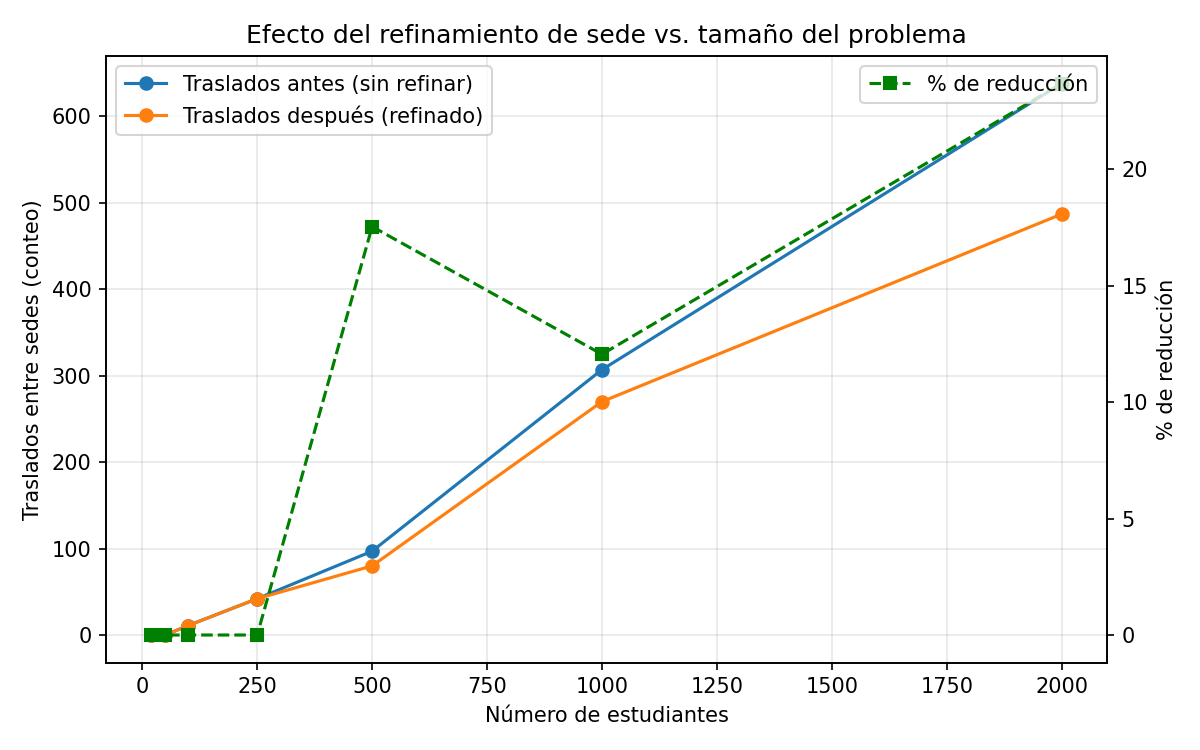
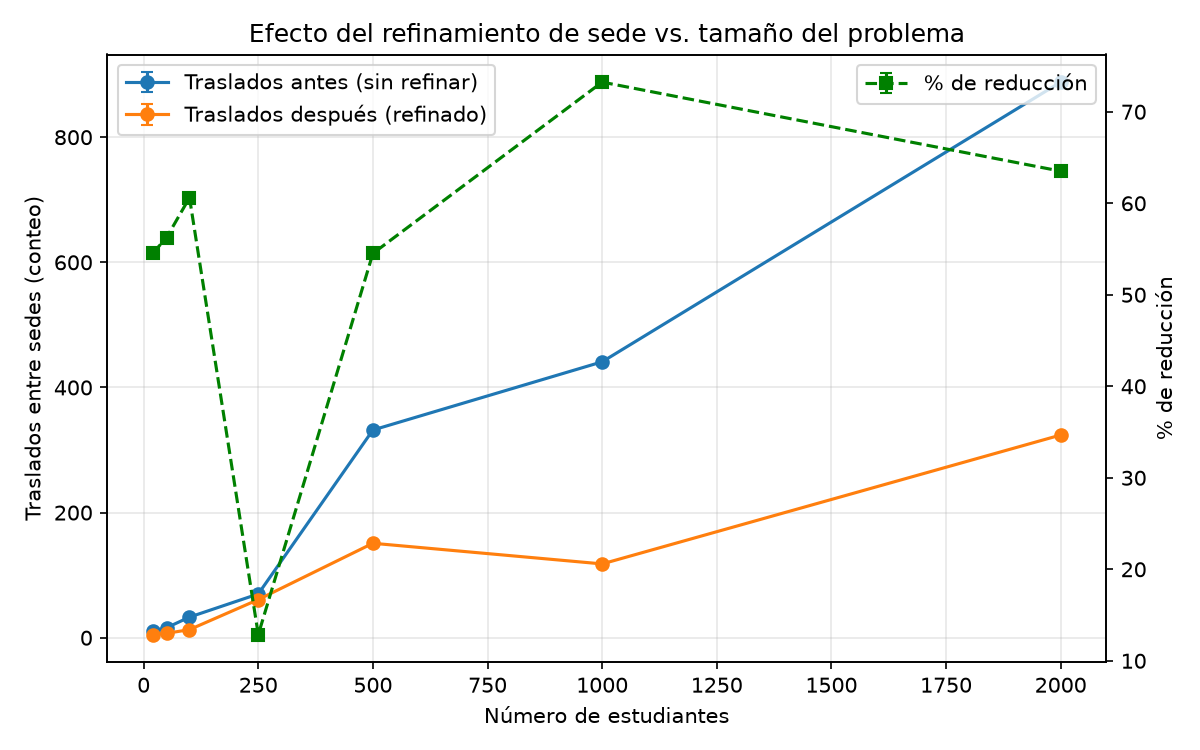
Add; Nueva consideración, ahora en lugar del limite de 2 grupos por materia, se establece un maximo de 8 por materia, algo mas realista y coherente

diff --git a/experimentos/experimentos/graficar_resultados.py b/experimentos/experimentos/graficar_resultados.py
@@ -1,0 +1,160 @@
+"""
+Genera las gráficas de escalabilidad a partir de experimentos/resultados_benchmark.csv.
+
+Si el CSV tiene varias semillas por escala, cada punto de las gráficas es el
+PROMEDIO entre semillas, con barras de error mostrando la desviación estándar
+-- así una sola corrida con datos "raros" no distorsiona la curva.
+
+Uso:
+    python experimentos/graficar_resultados.py
+    python experimentos/graficar_resultados.py --csv otra_ruta.csv --salida otra_carpeta/
+"""
+
+from __future__ import annotations
+import argparse
+import os
+
+import pandas as pd
+import matplotlib.pyplot as plt
+
+
+def _cargar(ruta_csv: str) -> pd.DataFrame:
+    df = pd.read_csv(ruta_csv)
+    fallidas = df[df["estado"] != "ok"]
+    if not fallidas.empty:
+        print("Filas con errores (excluidas de las gráficas):")
+        print(fallidas[["num_estudiantes", "semilla", "modo", "estado"]].to_string(index=False))
+    return df[df["estado"] == "ok"].copy()
+
+
+def _agregar(df: pd.DataFrame, columna: str) -> pd.DataFrame:
+    """Promedio y desviación estándar de `columna`, agrupado por (num_estudiantes, modo)."""
+    agregado = df.groupby(["num_estudiantes", "modo"])[columna].agg(["mean", "std"]).reset_index()
+    agregado["std"] = agregado["std"].fillna(0.0)  # una sola semilla -> std=0, no NaN
+    return agregado
+
+
+def graficar_tiempo_total(df: pd.DataFrame, carpeta_salida: str) -> None:
+    agregado = _agregar(df, "tiempo_total_s")
+    fig, ax = plt.subplots(figsize=(8, 5))
+    for modo, grupo in agregado.groupby("modo"):
+        grupo = grupo.sort_values("num_estudiantes")
+        ax.errorbar(grupo["num_estudiantes"], grupo["mean"], yerr=grupo["std"], marker="o", capsize=3, label=modo)
+    ax.set_xlabel("Número de estudiantes")
+    ax.set_ylabel("Tiempo total de ejecución (s)")
+    ax.set_title("Escalabilidad: tiempo total vs. tamaño del problema")
+    ax.legend()
+    ax.grid(True, alpha=0.3)
+    fig.tight_layout()
+    fig.savefig(os.path.join(carpeta_salida, "01_tiempo_total_vs_escala.png"), dpi=150)
+    plt.close(fig)
+
+
+def graficar_tiempo_por_etapa(df: pd.DataFrame, carpeta_salida: str) -> None:
+    propuesta = df[df["modo"] == "propuesta"]
+    fig, ax = plt.subplots(figsize=(8, 5))
+    for columna, etiqueta in [
+        ("tiempo_matching_s", "Matching (Fase 1)"),
+        ("tiempo_coloreo_s", "Coloreo DSatur (Fase 2)"),
+        ("tiempo_refinamiento_s", "Refinamiento de sede"),
+    ]:
+        agregado = propuesta.groupby("num_estudiantes")[columna].agg(["mean", "std"]).reset_index()
+        agregado["std"] = agregado["std"].fillna(0.0)
+        agregado = agregado.sort_values("num_estudiantes")
+        ax.errorbar(agregado["num_estudiantes"], agregado["mean"], yerr=agregado["std"], marker="o", capsize=3, label=etiqueta)
+    ax.set_xlabel("Número de estudiantes")
+    ax.set_ylabel("Tiempo (s)")
+    ax.set_title("Modo propuesta: tiempo por etapa del pipeline")
+    ax.legend()
+    ax.grid(True, alpha=0.3)
+    fig.tight_layout()
+    fig.savefig(os.path.join(carpeta_salida, "02_tiempo_por_etapa.png"), dpi=150)
+    plt.close(fig)
+
+
+def graficar_reduccion_traslados(df: pd.DataFrame, carpeta_salida: str) -> None:
+    propuesta = df[df["modo"] == "propuesta"]
+    antes = propuesta.groupby("num_estudiantes")["traslados_antes"].agg(["mean", "std"]).reset_index().sort_values("num_estudiantes")
+    despues = propuesta.groupby("num_estudiantes")["traslados_despues"].agg(["mean", "std"]).reset_index().sort_values("num_estudiantes")
+    pct = propuesta.groupby("num_estudiantes")["reduccion_traslados_pct"].agg(["mean", "std"]).reset_index().sort_values("num_estudiantes")
+
+    fig, ax1 = plt.subplots(figsize=(8, 5))
+    ax1.errorbar(antes["num_estudiantes"], antes["mean"], yerr=antes["std"].fillna(0), marker="o", capsize=3, label="Traslados antes (sin refinar)")
+    ax1.errorbar(despues["num_estudiantes"], despues["mean"], yerr=despues["std"].fillna(0), marker="o", capsize=3, label="Traslados después (refinado)")
+    ax1.set_xlabel("Número de estudiantes")
+    ax1.set_ylabel("Traslados entre sedes (conteo)")
+    ax1.legend(loc="upper left")
+    ax1.grid(True, alpha=0.3)
+
+    ax2 = ax1.twinx()
+    ax2.errorbar(pct["num_estudiantes"], pct["mean"], yerr=pct["std"].fillna(0), marker="s", color="green", linestyle="--", capsize=3, label="% de reducción")
+    ax2.set_ylabel("% de reducción")
+    ax2.legend(loc="upper right")
+
+    ax1.set_title("Efecto del refinamiento de sede vs. tamaño del problema")
+    fig.tight_layout()
+    fig.savefig(os.path.join(carpeta_salida, "03_reduccion_traslados_vs_escala.png"), dpi=150)
+    plt.close(fig)
+
+
+def graficar_violaciones_veto(df: pd.DataFrame, carpeta_salida: str) -> None:
+    agregado = _agregar(df, "violaciones_veto")
+    tabla_media = agregado.pivot(index="num_estudiantes", columns="modo", values="mean")
+    fig, ax = plt.subplots(figsize=(8, 5))
+    tabla_media.plot(kind="bar", ax=ax)
+    ax.set_xlabel("Número de estudiantes")
+    ax.set_ylabel("Estudiantes que ven con un profesor vetado (promedio)")
+    ax.set_title("Violaciones de veto: DSatur sin restricciones vs. Welsh-Powell vs. propuesta")
+    ax.grid(True, axis="y", alpha=0.3)
+    fig.tight_layout()
+    fig.savefig(os.path.join(carpeta_salida, "04_violaciones_veto_comparativo.png"), dpi=150)
+    plt.close(fig)
+
+
+def graficar_franjas_requeridas(df: pd.DataFrame, carpeta_salida: str) -> None:
+    agregado = _agregar(df, "franjas_requeridas")
+    fig, ax = plt.subplots(figsize=(8, 5))
+    for modo, grupo in agregado.groupby("modo"):
+        grupo = grupo.sort_values("num_estudiantes")
+        ax.errorbar(grupo["num_estudiantes"], grupo["mean"], yerr=grupo["std"], marker="o", capsize=3, label=modo)
+
+    if "hmax_utilizado" in df.columns and not df["hmax_utilizado"].isna().all():
+        hmax = df["hmax_utilizado"].dropna().iloc[0]
+        ax.axhline(hmax, color="red", linestyle="--", label=f"Hmax utilizado ({int(hmax)})")
+
+    ax.set_xlabel("Número de estudiantes")
+    ax.set_ylabel("Franjas horarias requeridas (χ(G₂))")
+    ax.set_title("Franjas requeridas vs. tamaño del problema")
+    ax.legend()
+    ax.grid(True, alpha=0.3)
+    fig.tight_layout()
+    fig.savefig(os.path.join(carpeta_salida, "05_franjas_requeridas_vs_escala.png"), dpi=150)
+    plt.close(fig)
+
+
+def main():
+    parser = argparse.ArgumentParser(description="Genera las gráficas de escalabilidad del benchmark UCTP.")
+    parser.add_argument("--csv", type=str,
+                         default=os.path.join(os.path.dirname(__file__), "resultados_benchmark.csv"))
+    parser.add_argument("--salida", type=str,
+                         default=os.path.join(os.path.dirname(__file__), "graficas"))
+    args = parser.parse_args()
+
+    os.makedirs(args.salida, exist_ok=True)
+    df = _cargar(args.csv)
+
+    if df.empty:
+        print("No hay filas exitosas para graficar.")
+        return
+
+    graficar_tiempo_total(df, args.salida)
+    graficar_tiempo_por_etapa(df, args.salida)
+    graficar_reduccion_traslados(df, args.salida)
+    graficar_violaciones_veto(df, args.salida)
+    graficar_franjas_requeridas(df, args.salida)
+
+    print(f"Gráficas guardadas en: {args.salida}")
+
+
+if __name__ == "__main__":
+    main()

diff --git a/experimentos/experimentos/hidratar.py b/experimentos/experimentos/hidratar.py
@@ -1,0 +1,61 @@
+"""
+Hidratación en memoria de un dataset sintético (dict) hacia las entidades de
+dominio. Es la misma lógica de FacultadJSONRepository.cargar_datos_completos,
+pero recibe el dict directamente en vez de leerlo desde un archivo — así el
+benchmark no tiene que escribir/leer un JSON de miles de estudiantes en cada
+una de las iteraciones.
+"""
+
+from typing import Any, Dict, List, Tuple
+
+from core.entities import Materia, Profesor, Grupo, HistorialReprobacion
+
+
+def hidratar_desde_dict(datos_crudos: Dict[str, Any]) -> Tuple[List[Profesor], List[Grupo], List[HistorialReprobacion]]:
+    diccionario_materias: Dict[str, Materia] = {
+        m['id']: Materia(
+            id_materia=m['id'],
+            nombre=m['nombre'],
+            nivel=m['nivel'],
+            creditos=m.get('creditos', 3),
+            sesiones_semanales=m.get('sesiones_semanales', 2),
+            area_conocimiento=m.get('area_conocimiento', 'General')
+        )
+        for m in datos_crudos.get('materias', [])
+    }
+
+    profesores = [
+        Profesor(
+            id_profesor=p['id'],
+            nombre=p['nombre'],
+            tipo_contrato=p.get('tipo_contrato', 'Ocasional'),
+            max_creditos_docencia=p.get('max_creditos_docencia', 8),
+            areas_habilitadas=p.get('areas_habilitadas', ['General'])
+        )
+        for p in datos_crudos.get('profesores', [])
+    ]
+
+    historial = [
+        HistorialReprobacion(
+            id_estudiante=h['id_estudiante'],
+            id_materia=h['id_materia'],
+            id_profesor_vetado=h['id_profesor_vetado']
+        )
+        for h in datos_crudos.get('historial_reprobacion', [])
+    ]
+
+    grupos = []
+    for g_data in datos_crudos.get('grupos_abiertos', []):
+        id_mat = g_data['id_materia']
+        if id_mat not in diccionario_materias:
+            raise ValueError(f"Inconsistencia de datos: La materia {id_mat} no existe en el catálogo.")
+
+        grupos.append(Grupo(
+            id_grupo=g_data['id_grupo'],
+            materia=diccionario_materias[id_mat],
+            cupo=g_data['cupo'],
+            sede=g_data.get('sede', 'Sede Principal'),
+            estudiantes_inscritos=set(g_data.get('estudiantes_inscritos', []))
+        ))
+
+    return profesores, grupos, historial
